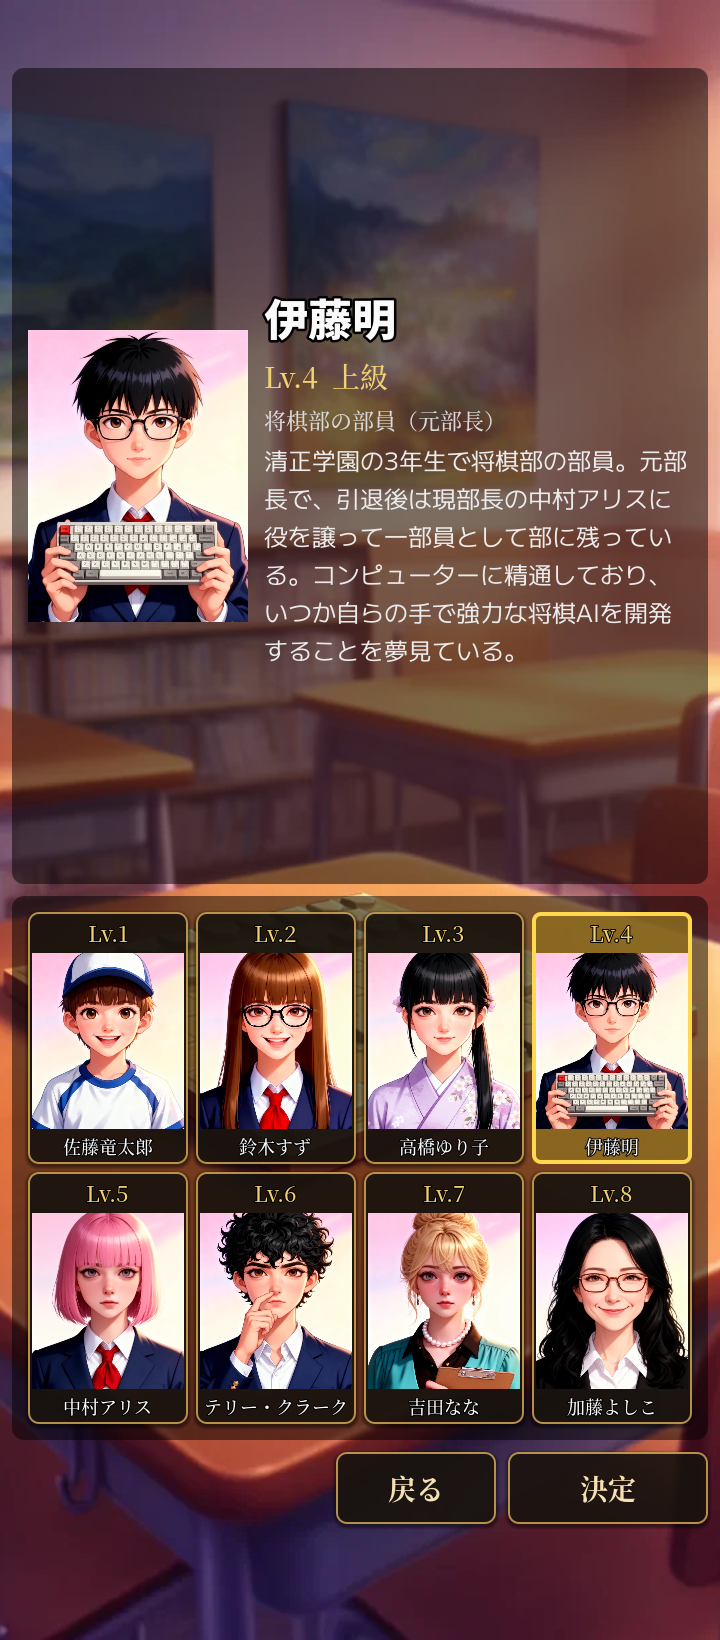
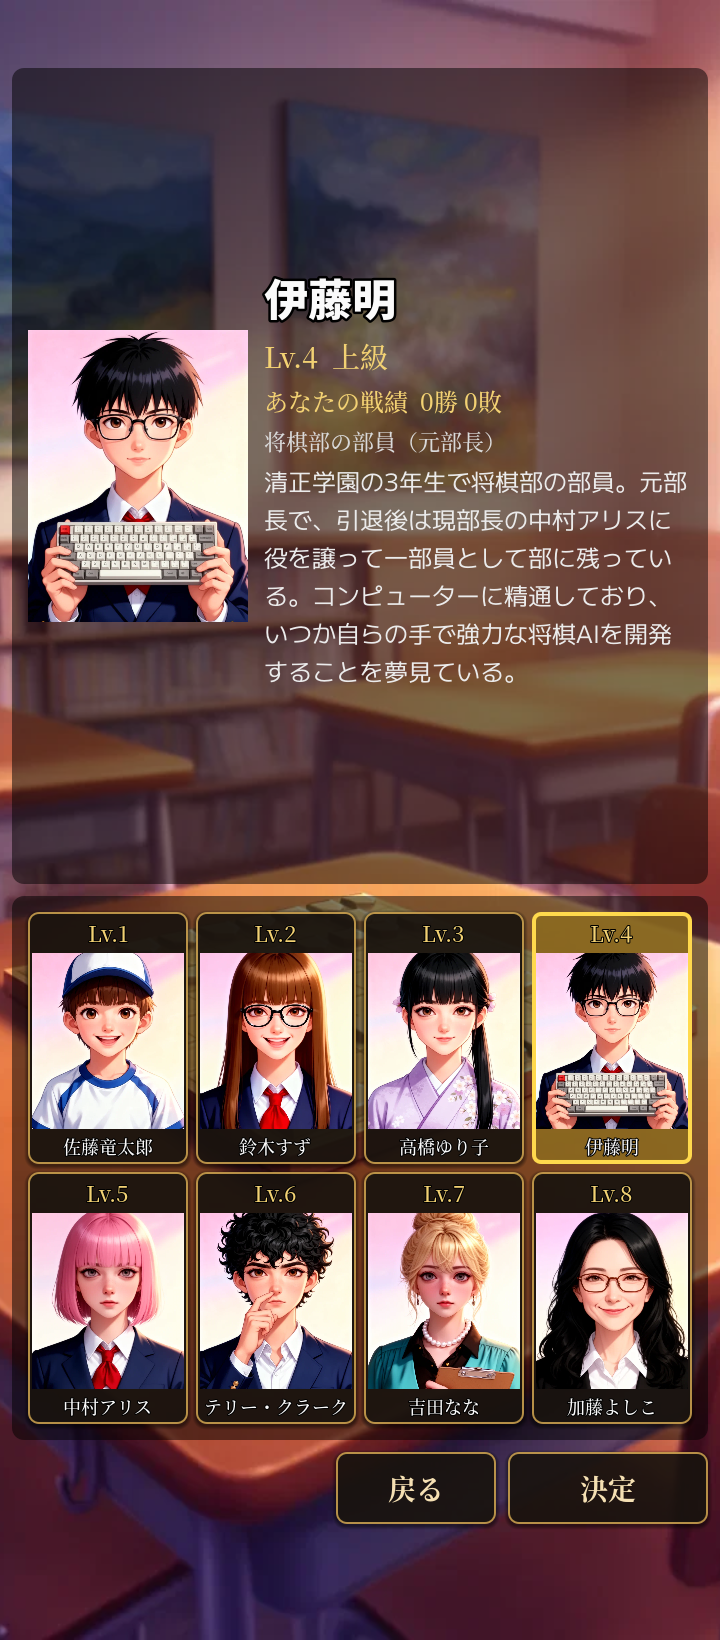
docs: refresh screenshots for the record and speech balloons
Retakes the title, picker and in-game shots for the README and the
store listing. The 棋譜検討 and 詰将棋 screens have not changed.

Changed region(s): [[0.3667, 0.1555, 0.9472, 0.4354]]

diff --git a/README.md b/README.md
@@ -29,7 +29,7 @@ Android 7.0（API 24）以降 / arm64-v8a。Google Play ストアは方針とし
 
 | タイトル画面 | 対戦相手選択 | 対局画面 |
 |:---:|:---:|:---:|
-| <img src="docs/screenshots/01_main_menu.png" width="220" alt="タイトル画面 — 対局モード・対戦相手を選び、設定 / 棋譜検討 / 詰将棋 / 新規対局へ進む（中断した対局があれば「続きから」も表示）。背景は部員・先生の絵から毎回ランダムに選ばれる。"> | <img src="docs/screenshots/02_character_picker.png" width="220" alt="対戦相手選択画面 — 8 人の部員・先生から指す相手を選ぶ。上半分に選択中キャラの肖像と紹介、下半分に Lv 1〜8 のグリッド。"> | <img src="docs/screenshots/03_in_game_start.png" width="220" alt="Lv 4（伊藤明）との対局序盤（7六歩 8四歩）。上部バーに対戦相手の肖像と名前、下部に「加藤先生！教えてください！」ボタンを配置。肖像は対局の流れで表情が変わる。"> |
+| <img src="docs/screenshots/01_main_menu.png" width="220" alt="タイトル画面 — 対局モード・対戦相手を選び、設定 / 棋譜検討 / 詰将棋 / 新規対局へ進む（中断した対局があれば「続きから」も表示）。背景は部員・先生の絵から毎回ランダムに選ばれる。"> | <img src="docs/screenshots/02_character_picker.png" width="220" alt="対戦相手選択画面 — 8 人の部員・先生から指す相手を選ぶ。上半分に選択中キャラの肖像と紹介、その相手とのあなたの戦績、下半分に Lv 1〜8 のグリッド。"> | <img src="docs/screenshots/03_in_game_start.png" width="220" alt="Lv 4（伊藤明）との対局開始。上部バーに対戦相手の肖像と名前、その下に吹き出しでひと言、下部に「加藤先生！教えてください！」ボタンを配置。肖像は対局の流れで表情が変わる。"> |
 
 | 先生モード | 棋譜検討（一覧） | 棋譜検討（解析） |
 |:---:|:---:|:---:|
